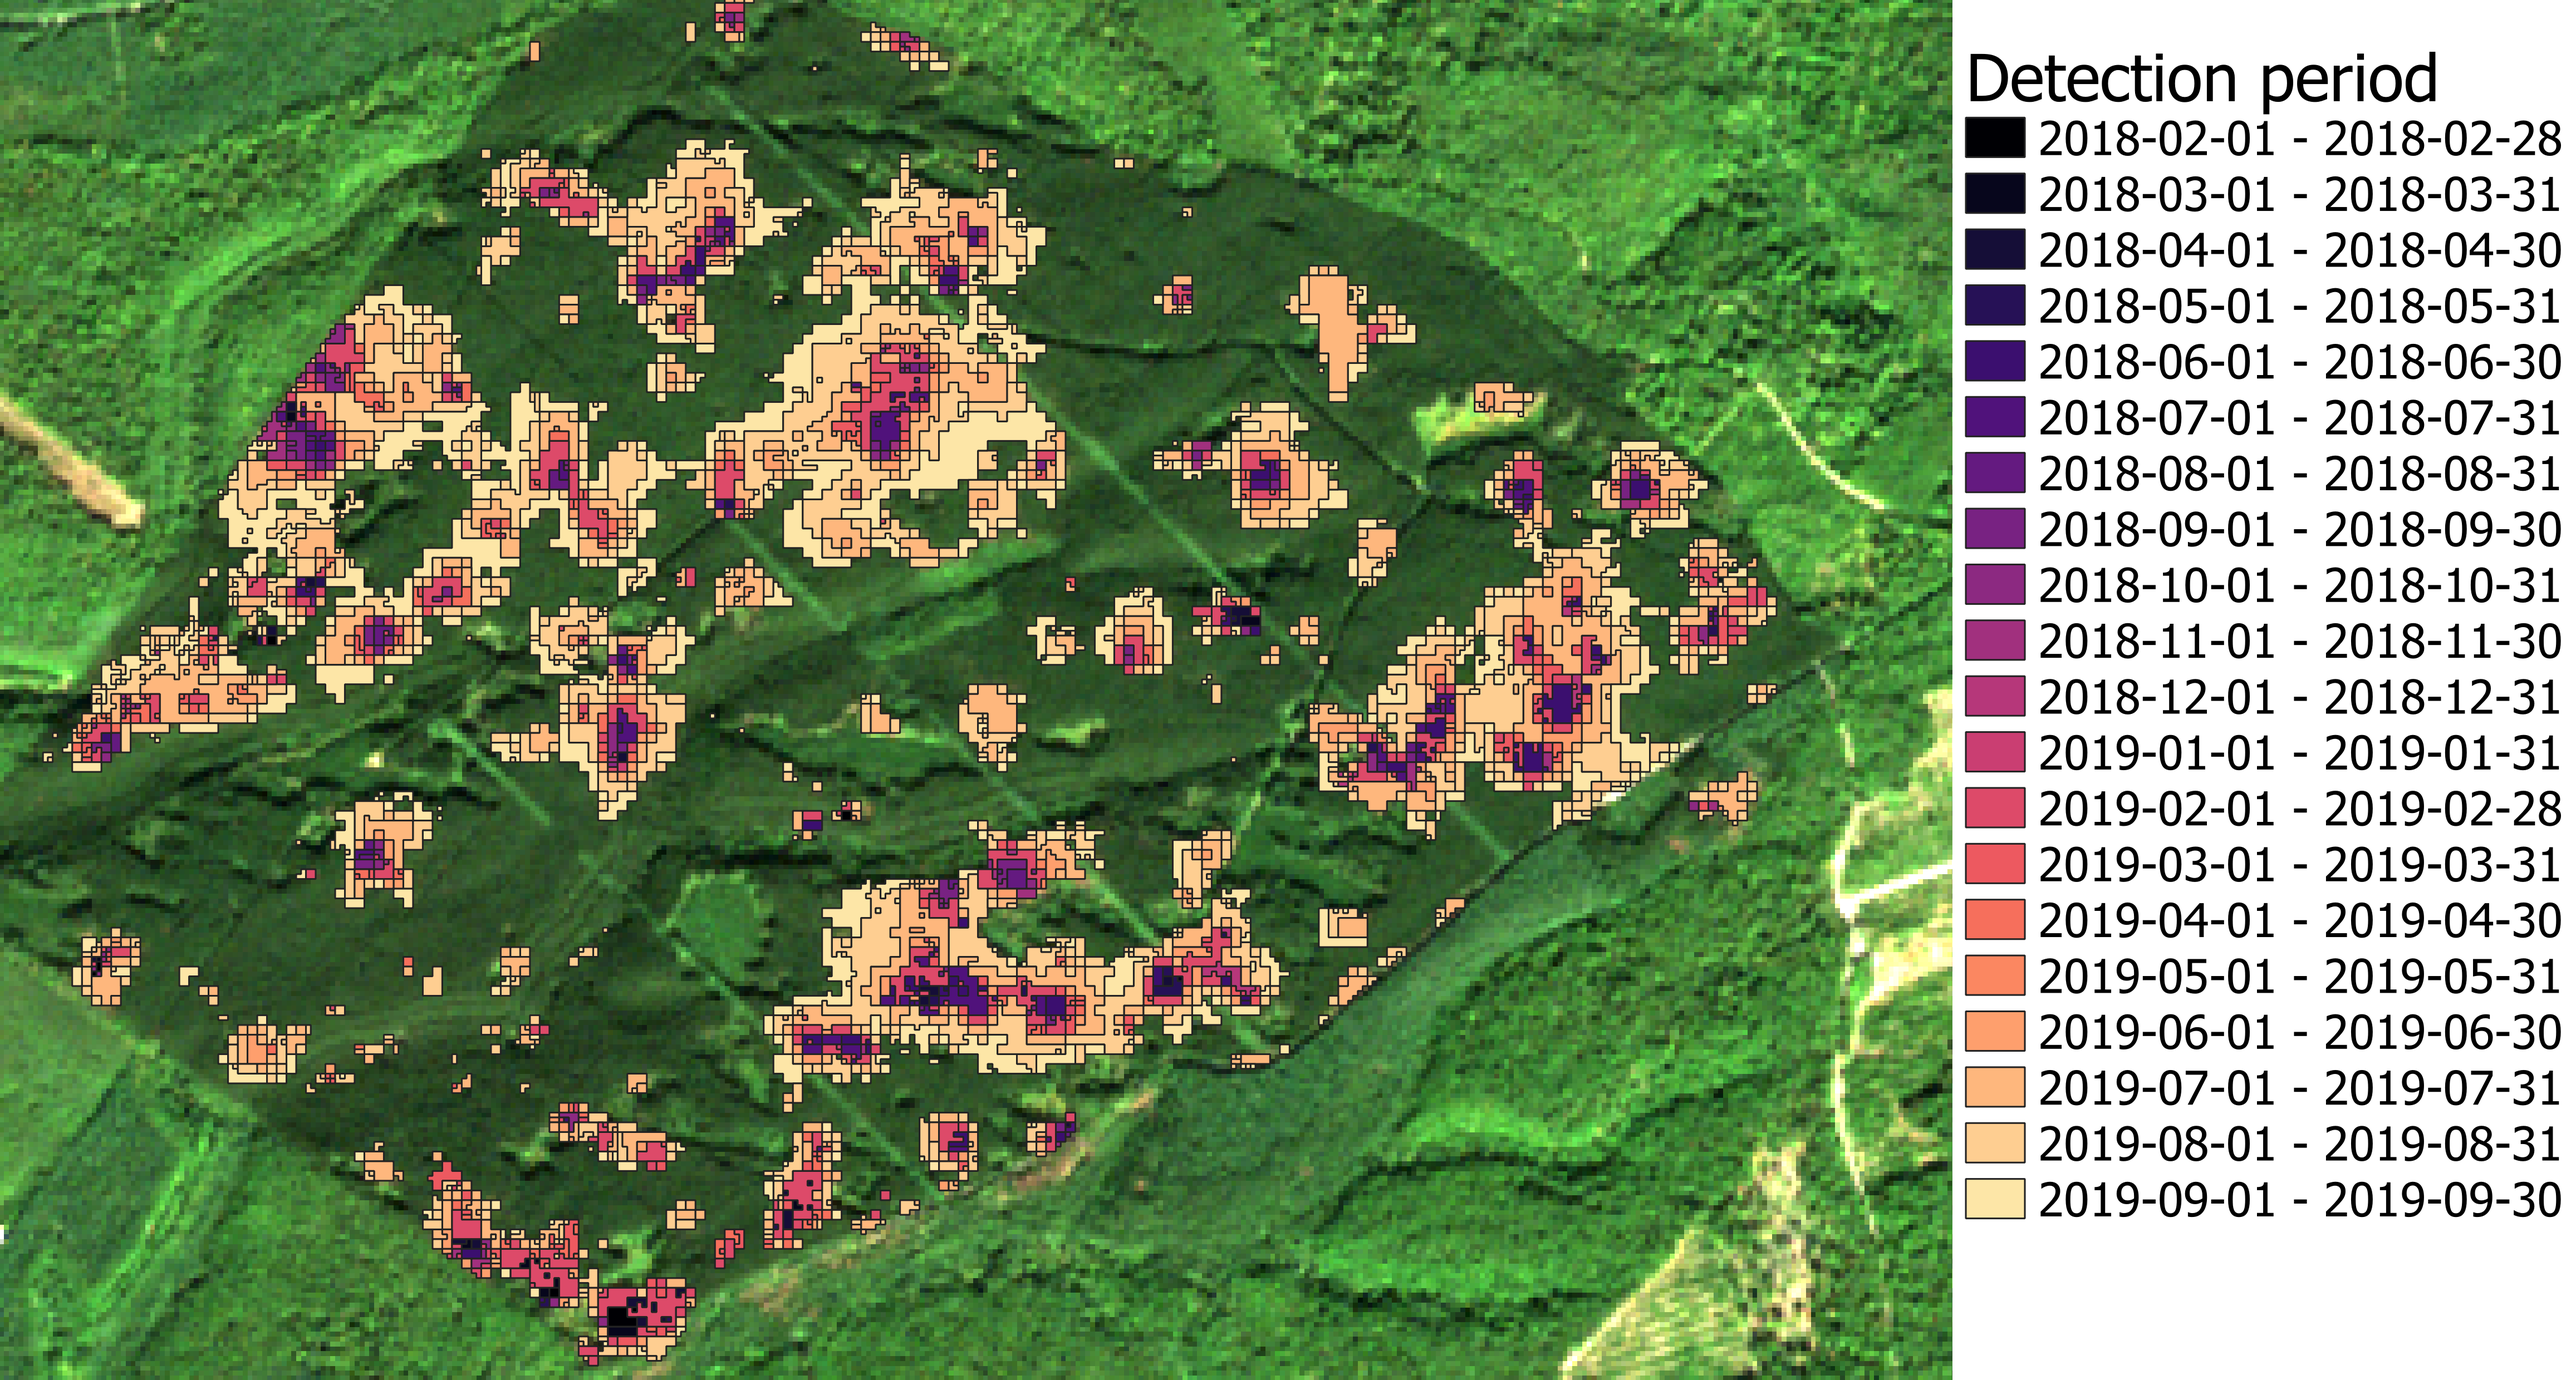
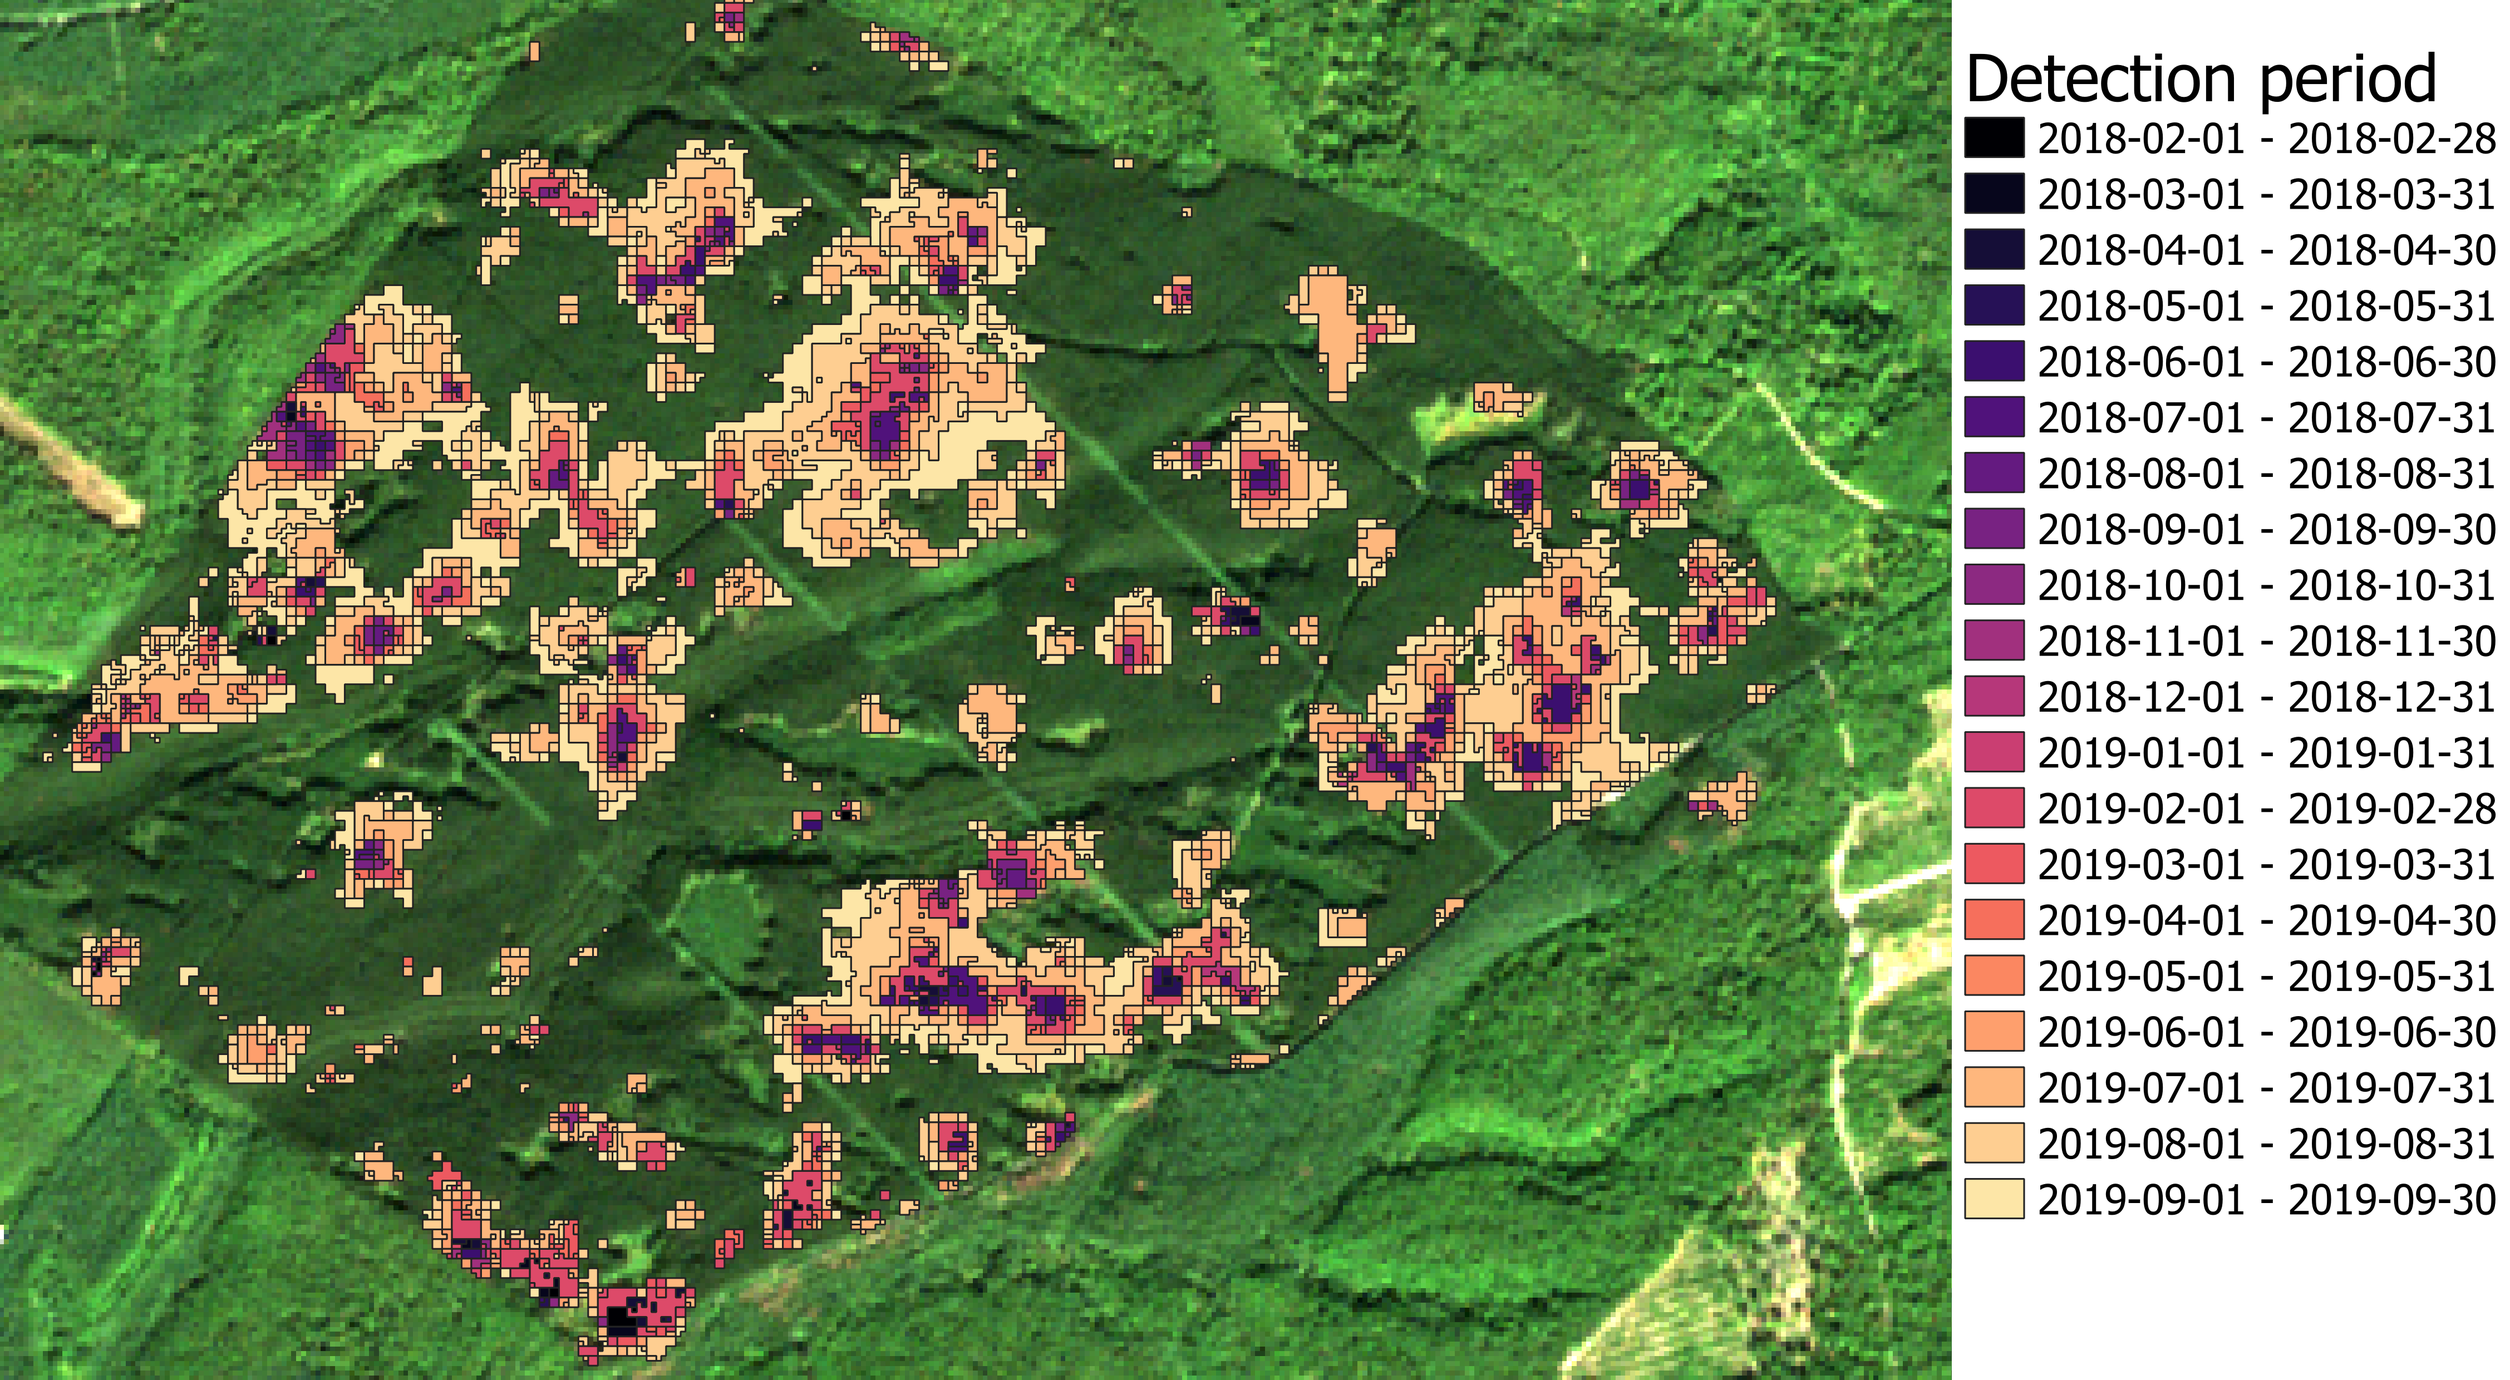
image to gif

diff --git a/docs/Tutorial/09_updating_detection.md b/docs/Tutorial/09_updating_detection.md
@@ -34,4 +34,4 @@ As you can see, results can be updated using only the new Sentinel-2 dates, savi
 Original | Updated
 :-------------------------:|:-------------------------:
 ![graph_healthy](Figures/graph_healthy.png "graph_healthy") | ![graph_updated](Figures/graph_updated.png "graph_updated")
-![detection_period](Figures/detection_period.png "detection_period") | ![detection_period_updated](Figures/detection_period_updated.png "detection_period_updated")
+![gif_results_original](Figures/gif_results_original.gif "gif_results_original") | ![gif_results_updated](Figures/gif_results_updated.gif "gif_results_updated")
